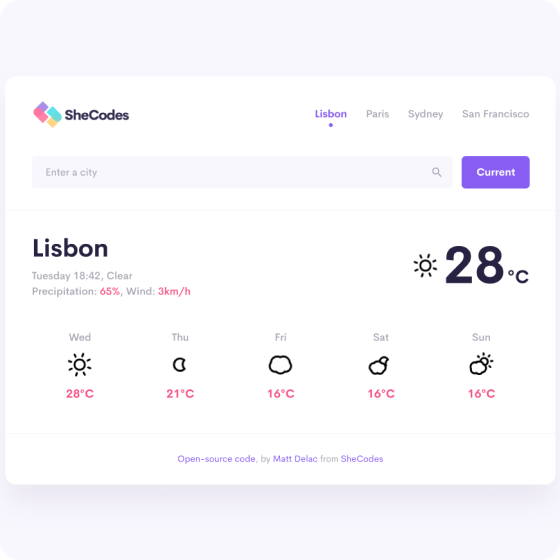
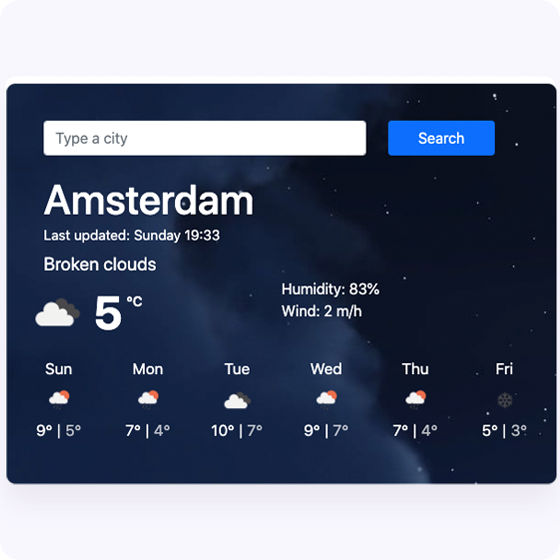
Personalised website
Added photo, personal logo and made final adjustments to URLs.

diff --git a/about.html b/about.html
@@ -33,8 +33,8 @@
 
     <div class="container"></div>
     <nav class="d-flex justify-content-between">
-        <a href="/"><img src="images/logo.png" alt="Shecodes Logo" class="logo d-none d-md-block ms-3" />
-       <img src="images/logo-small.jpeg" alt="Shecodes Logo small" class="logo-small d-block d-md-none" /></a>
+        <a href="/"><img src="images/logo-yap.png" alt="Shecodes Logo" class="logo d-none d-md-block ms-3" />
+       <img src="images/logo-yap-small.png" alt="Shecodes Logo small" class="logo-small d-block d-md-none ms-3" /></a>
         <ul>
           <li><a href="/index.html" title="Homepage">Home</a></li>
           <li class="active"><a href="/about.html" title="About page"> About</a></li>
@@ -48,19 +48,16 @@
       <div class="row">
         <div class="col-lg-6">
           <div class="content">
-    <h1 class="mb-4">Hi, I am Lysanne Yap</h1>
+    <h1 class="mb-4">Hi, I am Lysanne</h1>
     <h2 class="mb-4">Front-end developer, based in Amsterdam</h2>
     <p class="mb-4">
-      For anyone who wants to start learning code, this workshop is very
-      interesting. You will be challenged with different exercises, and
-      everything is well explained, homework and deadlines are good for keep
-      focus
+      Lorem ipsum dolor sit amet, consectetur adipiscing elit, sed do eiusmod tempor incididunt ut labore et dolore magna aliqua. Ut enim ad minim veniam, quis nostrud exercitation ullamco laboris nisi ut aliquip ex ea commodo consequat. Duis aute irure dolor in reprehenderit in voluptate velit esse cillum dolore eu fugiat nulla pariatur. Excepteur sint occaecat cupidatat non proident, sunt in culpa qui officia deserunt mollit anim id est laborum.
     </p>
     <a href="work.html" class="btn btn-branding" title="My work">See my projects</a>
     </div>
     </div>
     <div class="col-lg-6">
-    <img src="images/patricia.png" alt="headshot" class="img-fluid"/>
+    <img src="images/lys.JPG" alt="headshot" class="img-fluid photo"/>
     </div>
     </div>
     </div>
@@ -81,7 +78,6 @@
         <a href="mailto:lysanneyap@gmail.com" class="email-link" title="Email me"> lysanneyap@gmail.com </a>
         </div>
         <div class="social-links d-flex justify-content-center">
-          <a href="https://www.instagram.com/lysanneyap/?hl=en" target="_blank" title="Instagram"><i class="fab fa-instagram"></i></a>
           <a href="https://github.com/lysanney" target="_blank" title="Github"><i class="fab fa-github"></i></a>
           <a href="https://www.linkedin.com/in/lysanneyap/" target="_blank" title="LinkedIn"><i class="fab fa-linkedin"></i></a>
         </div>

diff --git a/work.html b/work.html
@@ -32,8 +32,8 @@
   <body>
     <div class="container"></div>
     <nav class="d-flex justify-content-between">
-        <a href="/"><img src="images/logo.png" alt="Shecodes Logo" class="logo d-none d-md-block ms-3" />
-       <img src="images/logo-small.jpeg" alt="Shecodes Logo small" class="logo-small d-block d-md-none" /></a>
+        <a href="/"><img src="images/logo-yap.png" alt="Shecodes Logo" class="logo d-none d-md-block ms-3" />
+       <img src="images/logo-yap-small.png" alt="Shecodes Logo small" class="logo-small d-block d-md-none ms-3" /></a>
         <ul>
           <li><a href="/index.html" title="Homepage">Home</a></li>
           <li><a href="/about.html" title="About page"> About</a></li>
@@ -63,7 +63,7 @@
 
           <div class="col-md-6">
             <img
-              src="images/weather.png"
+              src="images/weather2.png"
               alt="weather app"
               class="img-fluid mb-2" id="weather"
             />
@@ -113,7 +113,7 @@
         <a href="mailto:lysanneyap@gmail.com" class="email-link" title="Email me"> lysanneyap@gmail.com </a>
         </div>
         <div class="social-links d-flex justify-content-center">
-          <a href="https://www.instagram.com/lysanneyap/?hl=en" target="_blank" title="Instagram"><i class="fab fa-instagram"></i></a>
+          
           <a href="https://github.com/lysanney" target="_blank" title="Github"><i class="fab fa-github"></i></a>
           <a href="https://www.linkedin.com/in/lysanneyap/" target="_blank" title="LinkedIn"><i class="fab fa-linkedin"></i></a>
         </div>

diff --git a/index.html b/index.html
@@ -38,8 +38,8 @@
 
 <div class="container"></div>
     <nav class="d-flex justify-content-between">
-        <a href="/"><img src="images/logo.png" alt="Shecodes Logo" class="logo d-none d-md-block ms-3" />
-       <img src="images/logo-small.jpeg" alt="Shecodes Logo small" class="logo-small d-block d-md-none" /></a>
+        <a href="/"><img src="images/logo-yap.png" alt="Shecodes Logo" class="logo d-none d-md-block ms-3" />
+       <img src="images/logo-yap-small.png" alt="Shecodes Logo small" class="logo-small d-block d-md-none ms-3" /></a>
         <ul>
           <li class="active"><a href="/index.html" title="Homepage">Home</a></li>
           <li><a href="/about.html" title="About page"> About</a></li>
@@ -137,7 +137,6 @@
         <a href="mailto:lysanneyap@gmail.com" class="email-link" title="Email me"> lysanneyap@gmail.com </a>
         </div>
         <div class="social-links d-flex justify-content-center">
-          <a href="https://www.instagram.com/lysanneyap/?hl=en" target="_blank" title="Instagram"><i class="fab fa-instagram"></i></a>
           <a href="https://github.com/lysanney" target="_blank" title="Github"><i class="fab fa-github"></i></a>
           <a href="https://www.linkedin.com/in/lysanneyap/" target="_blank" title="LinkedIn"><i class="fab fa-linkedin"></i></a>
         </div>

diff --git a/contact.html b/contact.html
@@ -34,8 +34,8 @@
 
     <div class="container"></div>
     <nav class="d-flex justify-content-between">
-        <a href="/"><img src="images/logo.png" alt="Shecodes Logo" class="logo d-none d-md-block ms-3" />
-       <img src="images/logo-small.jpeg" alt="Shecodes Logo small" class="logo-small d-block d-md-none" /></a>
+        <a href="/"><img src="images/logo-yap.png" alt="Shecodes Logo" class="logo d-none d-md-block ms-3" />
+       <img src="images/logo-yap-small.png" alt="Shecodes Logo small" class="logo-small d-block d-md-none ms-3" /></a>
         <ul>
           <li><a href="/index.html" title="Homepage">Home</a></li>
           <li><a href="/about.html" title="About page"> About</a></li>
@@ -55,13 +55,6 @@
         <p>
           <a href="https://www.linkedin.com/lysanneyap" target="_blank"
             >/lysanneyap</a
-          >
-        </p>
-
-        <h3>Instagram</h3>
-        <p>
-          <a href="https://www.instagram.com/lysanneyap" target="_blank"
-            >@lysanneyap</a
           >
         </p>
       </div>

diff --git a/src/portfolio.css b/src/portfolio.css
@@ -110,8 +110,13 @@ p {
   padding: 120px 60px;
 }
 
+.photo {
+  max-width: 450px;
+  border-radius: 20px;
+}
+
 .logo {
-  max-height: 150px;
+  max-height: 50px;
 }
 
 .logo-small {
@@ -217,5 +222,10 @@ footer .social-links a:hover {
 
   nav a {
     font-size: 14px;
+  }
+
+  .logo-small {
+    max-height: 25px;
+    margin-top: 10px;
   }
 }
